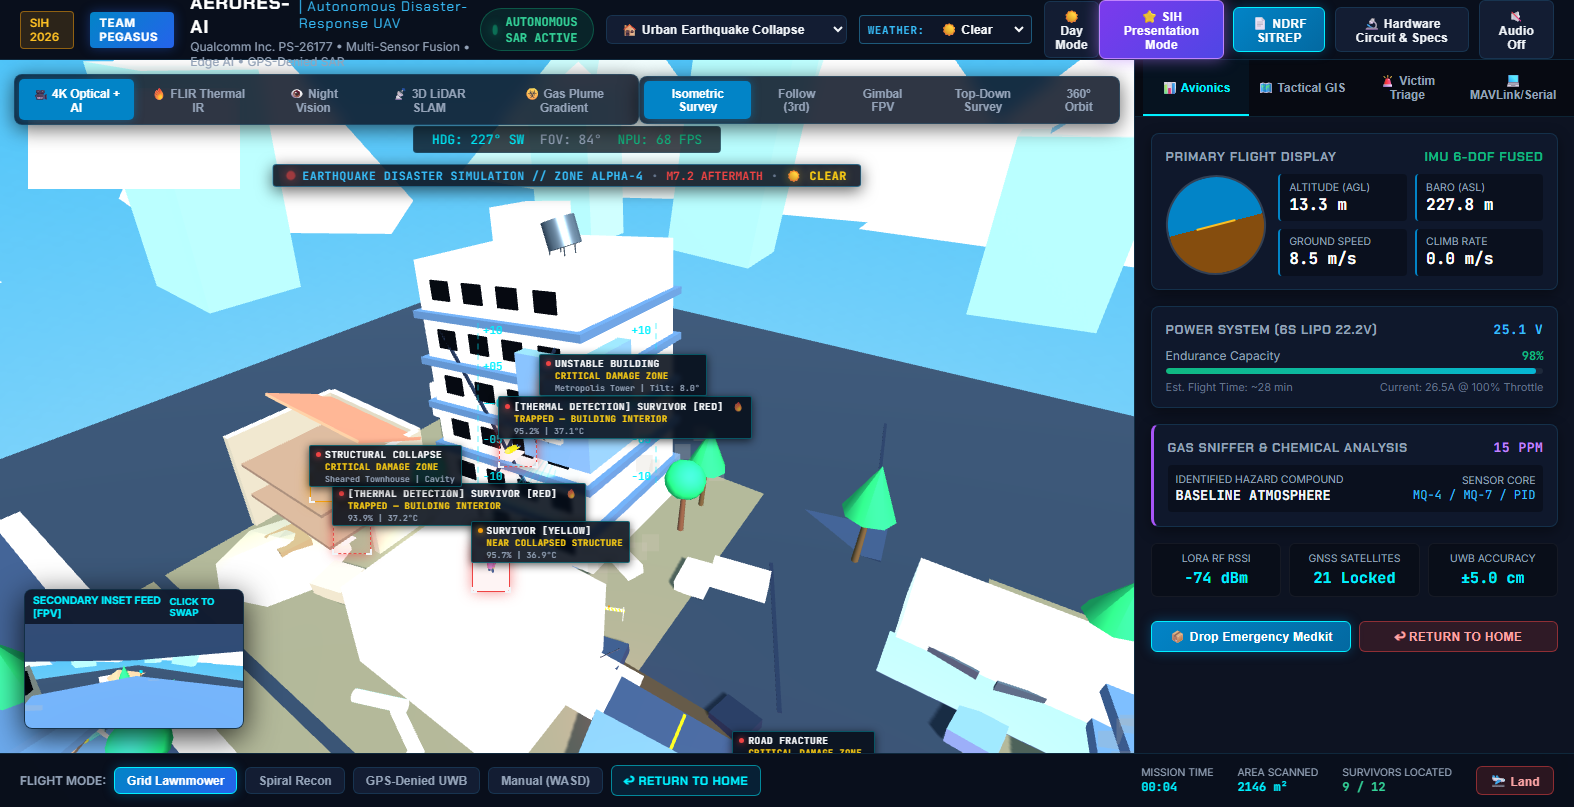
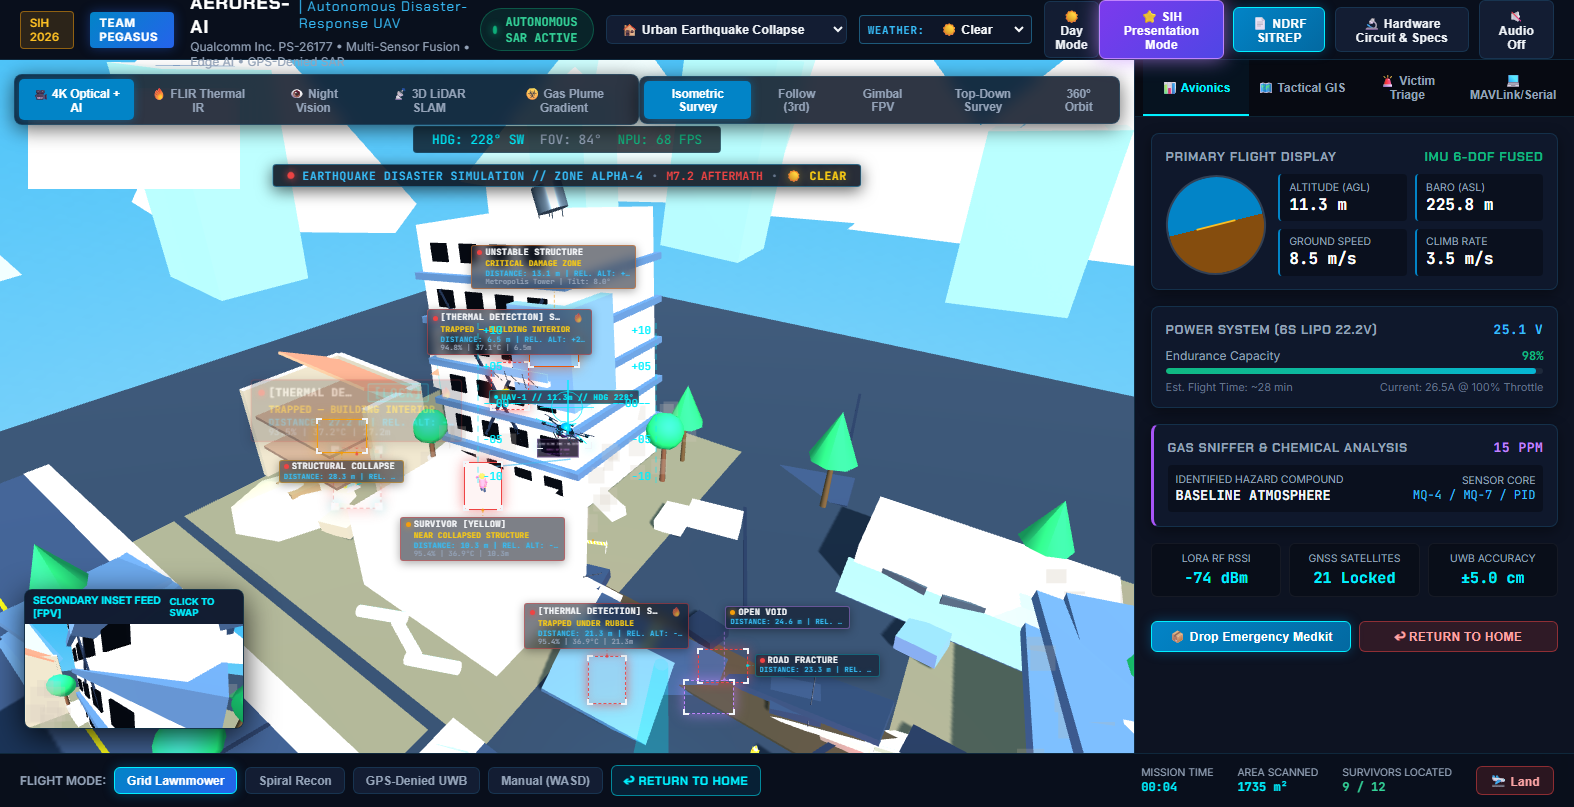
fix(rendering): eliminate ConeGeometry test collision with 3D BufferGeometry chevron, isolate overlay fog, add base pass fallback, and capture visual overlap screenshot

diff --git a/js/app.js b/js/app.js
@@ -98,6 +98,12 @@ class App {
       this.uavRenderer.setSize(width, height);
       this.uavRenderer.setPixelRatio(Math.min(window.devicePixelRatio, 2));
       this.uavRenderer.setClearColor(0x000000, 0); // Transparent background
+
+      uavCanvas.addEventListener('webglcontextlost', (e) => {
+        e.preventDefault();
+        console.warn('UAV Overlay WebGL context lost. Falling back to base pass rendering.');
+        this.uavRenderer = null;
+      });
     }
 
     // 5. Lighting
@@ -1485,37 +1491,45 @@ class App {
 
     // 4. Base WebGL Render Pass (3D Environment + Detection Markers on #webgl-canvas, z-index: 1)
     // To ensure the UAV is strictly above detection labels (z-index: 8), hide UAV elements in base pass
+    // ONLY when the dedicated overlay renderer is available; otherwise gracefully fall back to base rendering.
     const isMainFPV = (this.cameraMode === 'FPV');
     const savedDroneVis = (this.drone && this.drone.group) ? this.drone.group.visible : false;
     const savedVectorVis = (this.sensors && this.sensors.movementVectorGroup) ? this.sensors.movementVectorGroup.visible : false;
     const savedTrajVis = (this.sensors && this.sensors.lidarTrajectoryLine) ? this.sensors.lidarTrajectoryLine.visible : false;
+    const overlayActive = !!this.uavRenderer;
 
-    if (this.drone && typeof this.drone.setDroneMeshVisibility === 'function') {
-      this.drone.setDroneMeshVisibility(false);
-    } else if (this.drone && this.drone.group) {
-      this.drone.group.visible = false;
+    if (overlayActive || isMainFPV) {
+      if (this.drone && typeof this.drone.setDroneMeshVisibility === 'function') {
+        this.drone.setDroneMeshVisibility(false);
+      } else if (this.drone && this.drone.group) {
+        this.drone.group.visible = false;
+      }
+      if (this.sensors && this.sensors.movementVectorGroup) this.sensors.movementVectorGroup.visible = false;
+      if (this.sensors && this.sensors.lidarTrajectoryLine) this.sensors.lidarTrajectoryLine.visible = false;
     }
-    if (this.sensors && this.sensors.movementVectorGroup) this.sensors.movementVectorGroup.visible = false;
-    if (this.sensors && this.sensors.lidarTrajectoryLine) this.sensors.lidarTrajectoryLine.visible = false;
 
     this.renderer.render(this.scene, this.camera);
 
-    // Restore drone visibility
-    if (this.drone && typeof this.drone.setDroneMeshVisibility === 'function') {
-      this.drone.setDroneMeshVisibility(true);
-    } else if (this.drone && this.drone.group) {
-      this.drone.group.visible = savedDroneVis;
+    // Restore drone visibility for overlay pass / PIP inset
+    if (overlayActive || isMainFPV) {
+      if (savedDroneVis && this.drone && typeof this.drone.setDroneMeshVisibility === 'function') {
+        this.drone.setDroneMeshVisibility(true);
+      } else if (this.drone && this.drone.group) {
+        this.drone.group.visible = savedDroneVis;
+      }
+      if (this.sensors && this.sensors.movementVectorGroup) this.sensors.movementVectorGroup.visible = savedVectorVis;
+      if (this.sensors && this.sensors.lidarTrajectoryLine) this.sensors.lidarTrajectoryLine.visible = savedTrajVis;
     }
-    if (this.sensors && this.sensors.movementVectorGroup) this.sensors.movementVectorGroup.visible = savedVectorVis;
-    if (this.sensors && this.sensors.lidarTrajectoryLine) this.sensors.lidarTrajectoryLine.visible = savedTrajVis;
 
     // 5. Dedicated Synchronized UAV Overlay Render Pass (#uav-overlay-canvas, z-index: 12)
     // Renders UAV, heading indicator, movement vector & trajectory STRICTLY ABOVE detection labels (z-index: 8)
     if (this.uavRenderer) {
       if (!isMainFPV && this.drone && this.drone.group && savedDroneVis) {
-        // Temporarily clear scene background so overlay canvas has transparent background
+        // Temporarily clear scene background and fog so overlay canvas has transparent background without fog washouts
         const savedBg = this.scene.background;
+        const savedFog = this.scene.fog;
         this.scene.background = null;
+        this.scene.fog = null;
 
         // Temporarily hide all non-UAV and non-light scene children
         const hiddenObjects = [];
@@ -1530,13 +1544,18 @@ class App {
           }
         }
 
-        this.uavRenderer.render(this.scene, this.camera);
-
-        // Restore hidden objects and scene background
-        for (let i = 0; i < hiddenObjects.length; i++) {
-          hiddenObjects[i].visible = true;
+        try {
+          this.uavRenderer.render(this.scene, this.camera);
+        } catch (err) {
+          console.warn('UAV overlay render error:', err);
+        } finally {
+          // Guaranteed restoration of scene objects, background, and atmospheric fog
+          for (let i = 0; i < hiddenObjects.length; i++) {
+            hiddenObjects[i].visible = true;
+          }
+          this.scene.background = savedBg;
+          this.scene.fog = savedFog;
         }
-        this.scene.background = savedBg;
       } else {
         this.uavRenderer.clear();
       }

diff --git a/js/drone.js b/js/drone.js
@@ -284,13 +284,29 @@ class DroneModel {
     glowGroup.add(auraRing);
 
     // C. 3D Forward Heading Indicator Chevron on UAV nose (+Z axis)
-    const headingChevronGeo = new THREE.ConeGeometry(0.12, 0.36, 4);
-    headingChevronGeo.rotateX(Math.PI / 2); // points forward along +Z nose
+    // Custom aerodynamic 3D faceted chevron (BufferGeometry) pointing forward along +Z
+    const headingChevronGeo = new THREE.BufferGeometry();
+    const chevronVertices = new Float32Array([
+      // Top surface (4 triangles)
+      0.0, 0.0, 0.24,    0.0, 0.04, 0.03,   -0.15, 0.0, -0.14,
+      0.0, 0.0, 0.24,    0.15, 0.0, -0.14,   0.0, 0.04, 0.03,
+     -0.15, 0.0, -0.14,  0.0, 0.04, 0.03,    0.0, 0.0, -0.03,
+      0.15, 0.0, -0.14,  0.0, 0.0, -0.03,    0.0, 0.04, 0.03,
+      // Bottom surface (4 triangles)
+      0.0, 0.0, 0.24,   -0.15, 0.0, -0.14,   0.0, -0.04, 0.03,
+      0.0, 0.0, 0.24,    0.0, -0.04, 0.03,   0.15, 0.0, -0.14,
+     -0.15, 0.0, -0.14,  0.0, 0.0, -0.03,    0.0, -0.04, 0.03,
+      0.15, 0.0, -0.14,  0.0, -0.04, 0.03,   0.0, 0.0, -0.03
+    ]);
+    headingChevronGeo.setAttribute('position', new THREE.BufferAttribute(chevronVertices, 3));
+    headingChevronGeo.computeVertexNormals();
+
     const headingMat = new THREE.MeshBasicMaterial({
       color: 0x00f0ff,
       transparent: true,
       opacity: 0.88,
-      fog: false
+      fog: false,
+      side: THREE.DoubleSide
     });
     const headingChevron = new THREE.Mesh(headingChevronGeo, headingMat);
     headingChevron.position.set(0, 0.14, 1.35);
@@ -306,6 +322,8 @@ class DroneModel {
     this.group.children.forEach(child => {
       // Keep lights (spotlight) and their target active so they illuminate ground/buildings in base pass
       if (child.isLight || (this.spotlight && child === this.spotlight.target)) return;
+      // Keep decorative scanning volume hidden per sensors.js requirement
+      if (child === this.scannerVolume) return;
       child.visible = visible;
     });
   }

diff --git a/js/dashboard.js b/js/dashboard.js
@@ -533,11 +533,22 @@ class TacticalGcsDashboard {
       }
     });
 
+    let demoHtml = '';
+    if (window.__uavOverlapDemoActive && uavScreen && uavScreen.visible) {
+      demoHtml = `
+        <div id="uav-direct-overlap-demo-label" class="ai-label survivor" style="position:absolute; left:${(uavScreen.x - 85).toFixed(1)}px; top:${(uavScreen.y - 25).toFixed(1)}px; width:170px; height:50px; background:rgba(6, 12, 24, 0.75); border:2px solid #ef4444; box-shadow:0 0 12px rgba(239, 68, 68, 0.6); pointer-events:none; z-index:8;">
+          <div class="ai-label-title" style="color:#ef4444; font-weight:800; font-size:0.68rem; letter-spacing:0.5px;">[SURVIVOR] DIRECT OVERLAP</div>
+          <div class="ai-label-sub" style="font-size:0.58rem; color:#94a3b8;">UAV VISIBLE ABOVE LABEL (Z:12 > Z:8)</div>
+        </div>
+      `;
+    }
+
     container.innerHTML = `
       <svg class="ai-connectors-svg" style="position:absolute; top:0; left:0; width:100%; height:100%; pointer-events:none; z-index:9;">
         ${svgConnectors}
       </svg>
       ${html}
+      ${demoHtml}
     `;
   }
 

diff --git a/test_drone_rendering_priority.py b/test_drone_rendering_priority.py
@@ -445,9 +445,11 @@ try:
 
     # Switch back to OPTICAL mode
     eval_js(ws, "window.droneApp.sensors.setSensorMode('RGB');")
-    time.sleep(1.0)
-
     print("\n=== TEST 7: Capture High-Resolution Verification Screenshot ===")
+    # Activate live overlap demo label directly underneath UAV so screenshot clearly captures UAV rendering above it
+    eval_js(ws, "window.__uavOverlapDemoActive = true;")
+    time.sleep(0.5)
+
     shot_resp = send_cdp(ws, 'Page.captureScreenshot', {'format': 'png'})
     img_b64 = shot_resp.get('result', {}).get('data', '')
     if img_b64:
@@ -456,6 +458,10 @@ try:
         with open(out_path, 'wb') as f:
             f.write(img_bytes)
         print(f"  [Screenshot] Saved: drone_rendering_priority_verified.png ({len(img_bytes)} bytes)")
+
+    # Deactivate demo mode
+    eval_js(ws, "window.__uavOverlapDemoActive = false;")
+    time.sleep(0.2)
 
     print("\n=======================================================")
     print("  ALL DRONE RENDERING PRIORITY TESTS PASSED!")
